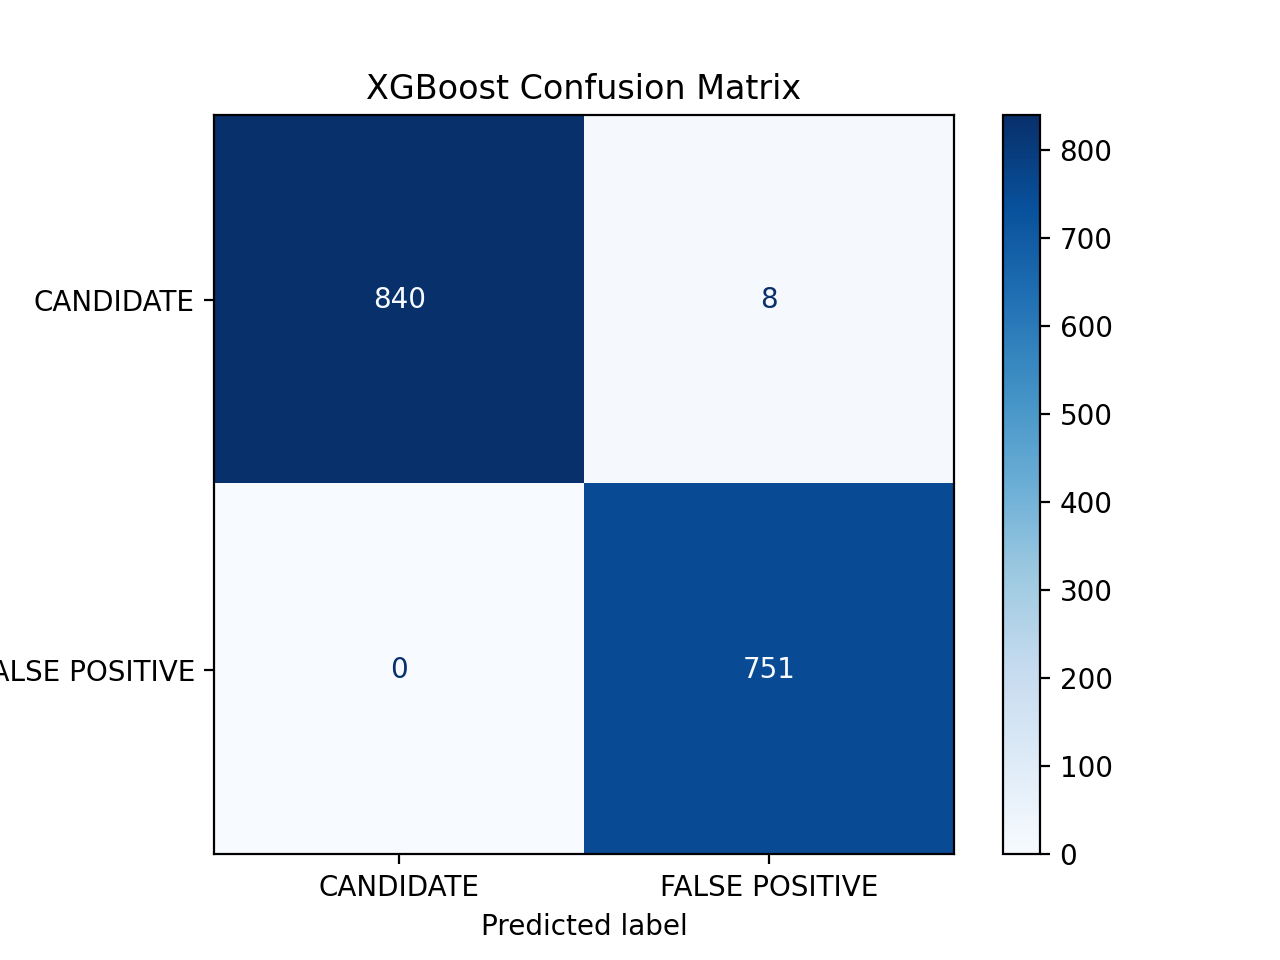
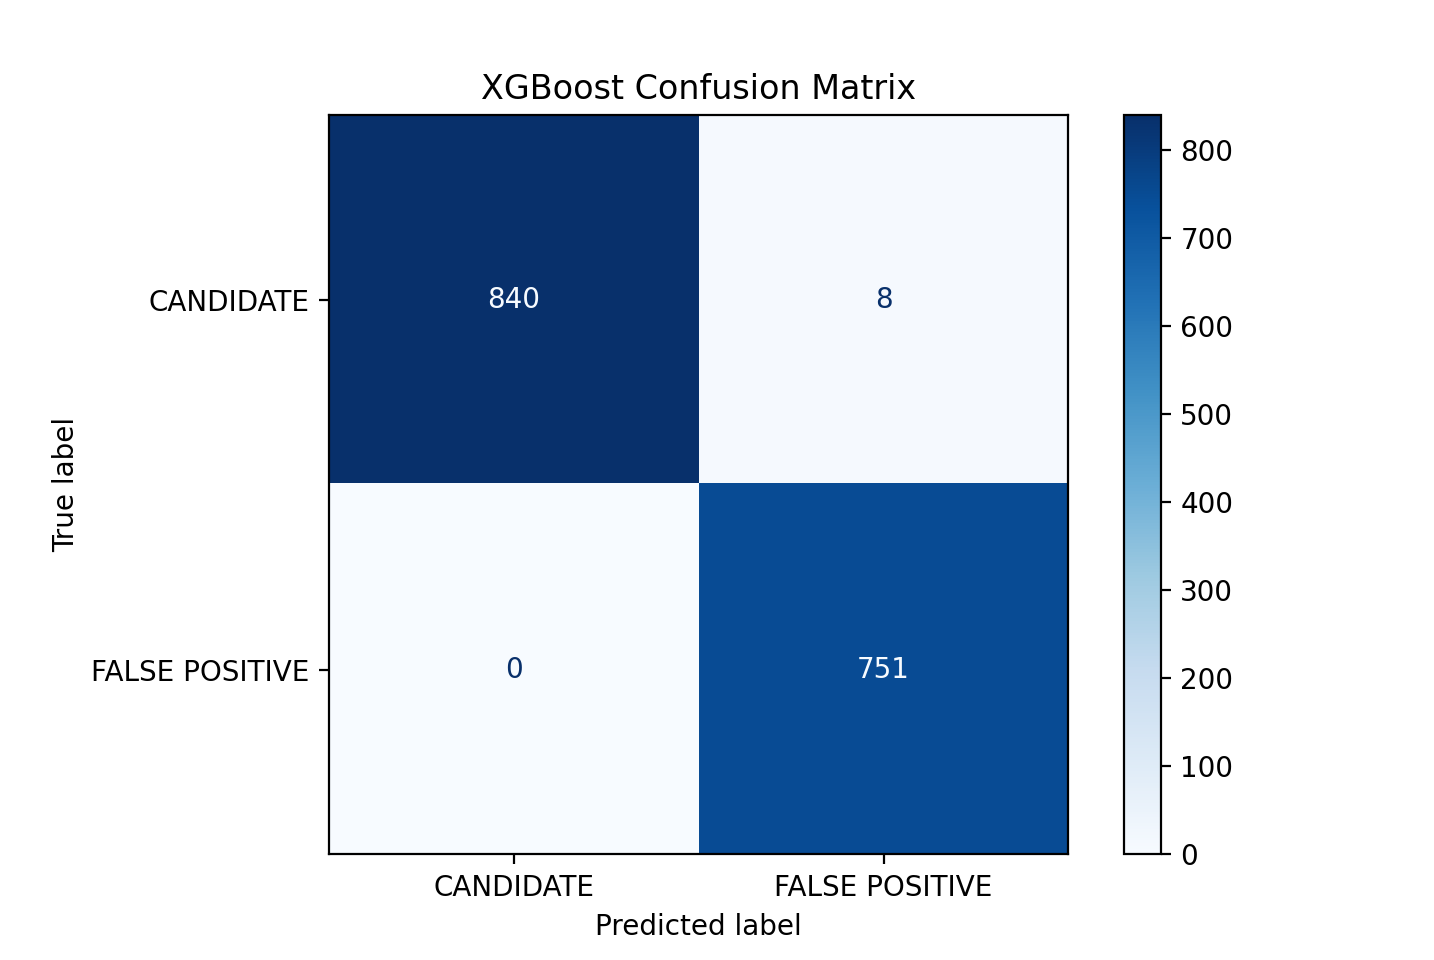
update final report - dec trees

diff --git a/final_report.md b/final_report.md
@@ -568,17 +568,34 @@ The plot visualizing the clusters and their distribution is below. It looks rema
 The silhouette coefficient for the 5 feature model is much higher than the 10 feature model, which we hypothesize is attributed to the lower amount of outliers, and more even distribution of FALSE POSITIVE objects.
 
 # Results - Classification
-After performing all of our clustering algorithms, we needed to determine which clustering algorithm's labels to move forward with, as well as decide the number of features to include. The CANDIDATE points in K-means and hierarchical clustering are more evenly distributed over multiple clusters compared to the more contained results of DBSCAN. Because the CANDIDATE points are centralized in only two clusters in DBSCAN, the cluster label will likely be more meaningful in the classification process, and does not seem to be at risk for overfitting. Thus, for all of the classification methods implemented, we will be using a dataset including the top five most important features and the cluster label for the data point. Also, to ensure that the models were being assessed equally, we used the same train/test data split for each model. 25% of the data was reserved for testing, while the other 75% was used for training. 
+After performing all of our clustering algorithms, we needed to determine which clustering algorithm's labels to move forward with, as well as decide the number of features to include. The CANDIDATE points in K-means and hierarchical clustering are more evenly distributed over multiple clusters compared to the more contained results of DBSCAN. Because the CANDIDATE points are centralized in only two clusters in DBSCAN, the cluster label will likely be more meaningful in the classification process, and does not seem to be at risk for overfitting. Thus, for all of the classification methods implemented, we will be using a dataset including the top five most important features and the cluster label for the data point. Also, to ensure that the models were being assessed equally, we used the same train/test data split for each model. 25% of the data was reserved for testing, while the other 75% was used for training.
 
 ## Decision Trees
 Because we implemented two ensemble decision tree algorithms, we will address their results separately. For both GradientBoostingClassifier and XGBoost, the best parameter combination detected by grid search was a learning rate equal to 0.01, and 100 boosting stages. Their final results were also essentially equivalent. 
 
 ### GradientBoostingClassifier
-The confusion matrix with the results of GradientBoostingClassifier's predictions for the test set are below.
+The confusion matrix with the results of GradientBoostingClassifier's predictions for the test set is below. 
 ![](images/gbc_confusion_matrix.png)
 
+The model performs extremely well on the test set. Nearly all of the data points were classified correctly, excluding only eight. 
+
+**Accuracy:** 99%
+**Precision:** 100%
+**Recall:**  99%
+**Sensitivity:** 99%
+**Specificity:** 100%
+
 ### XGBoost
+The confusion matrix with the results of XGBoost's predictions for the test set is below. 
 ![](images/xgb_confusion_matrix.png)
+
+The model performs extremely well on the test set. Nearly all of the data points were classified correctly, also excluding only eight like the GradientBoostingClassifier
+
+**Accuracy:** 99%
+**Precision:** 100%
+**Recall:**  99%
+**Sensitivity:** 99%
+**Specificity:** 100%
 
 ## Logistic Regression
 ![](images/log_reg_confusion_matrix.png)
@@ -587,7 +604,7 @@ The confusion matrix with the results of GradientBoostingClassifier's prediction
 ![](images/nb_confusion_matrix.png)
 
 # Discussion
-## What We've Learned About the Data
+## Clustering Results: What We've Learned About the Data
 As we've seen from our clustering results, most of the clustering algorithms converged on a solution that ended up with one cluster holding almost all of the candidate points, then one or two clusters holding a much smaller amount. We found this very interesting so decided to look into the makeup of the objects that were apart of those two clusters. We will use the DBSCAN model run on the 5 feature dataset as an example. For this model, clusters 0 and 1 hold all (or almost all) of the candidate points in the dataset. A table with statistics for these two clusters is below.
 
 | Cluster | Average koi_fpflag_co Value | Average koi_fpflag_nt Value | Average koi_fpflag_ss Value | Average koi_fpflag_ec Value | Average koi_prad Value |
@@ -599,15 +616,14 @@ Interestingly enough, for cluster 0, all of the binary flags were equal to 0. Fo
 
 ## What Models We Chose and Why - MICAELA
 
-
-| Metric | GradientBoostingClassifier | XGBoost | Logistic Regression | Naive Bayes |
+| Metric (%) | GradientBoostingClassifier | XGBoost | Logistic Regression | Naive Bayes |
 |---|---|---|---|---|
 | Accuracy | 0 | 0 | 0 | 0 |
 | Recall | 0 | 0 | 1 | 0 |
 | Precision | 0 | 0 | 1 | 0 |
 | Sensitivity | 0 | 0 | 1 | 0 |
 
-insert prioritize recall even though it doesn't really apply to our models bc confusion matrices
+insert wanting to minimize false negatives
 
 ## Impact of Using Clustering?
 
